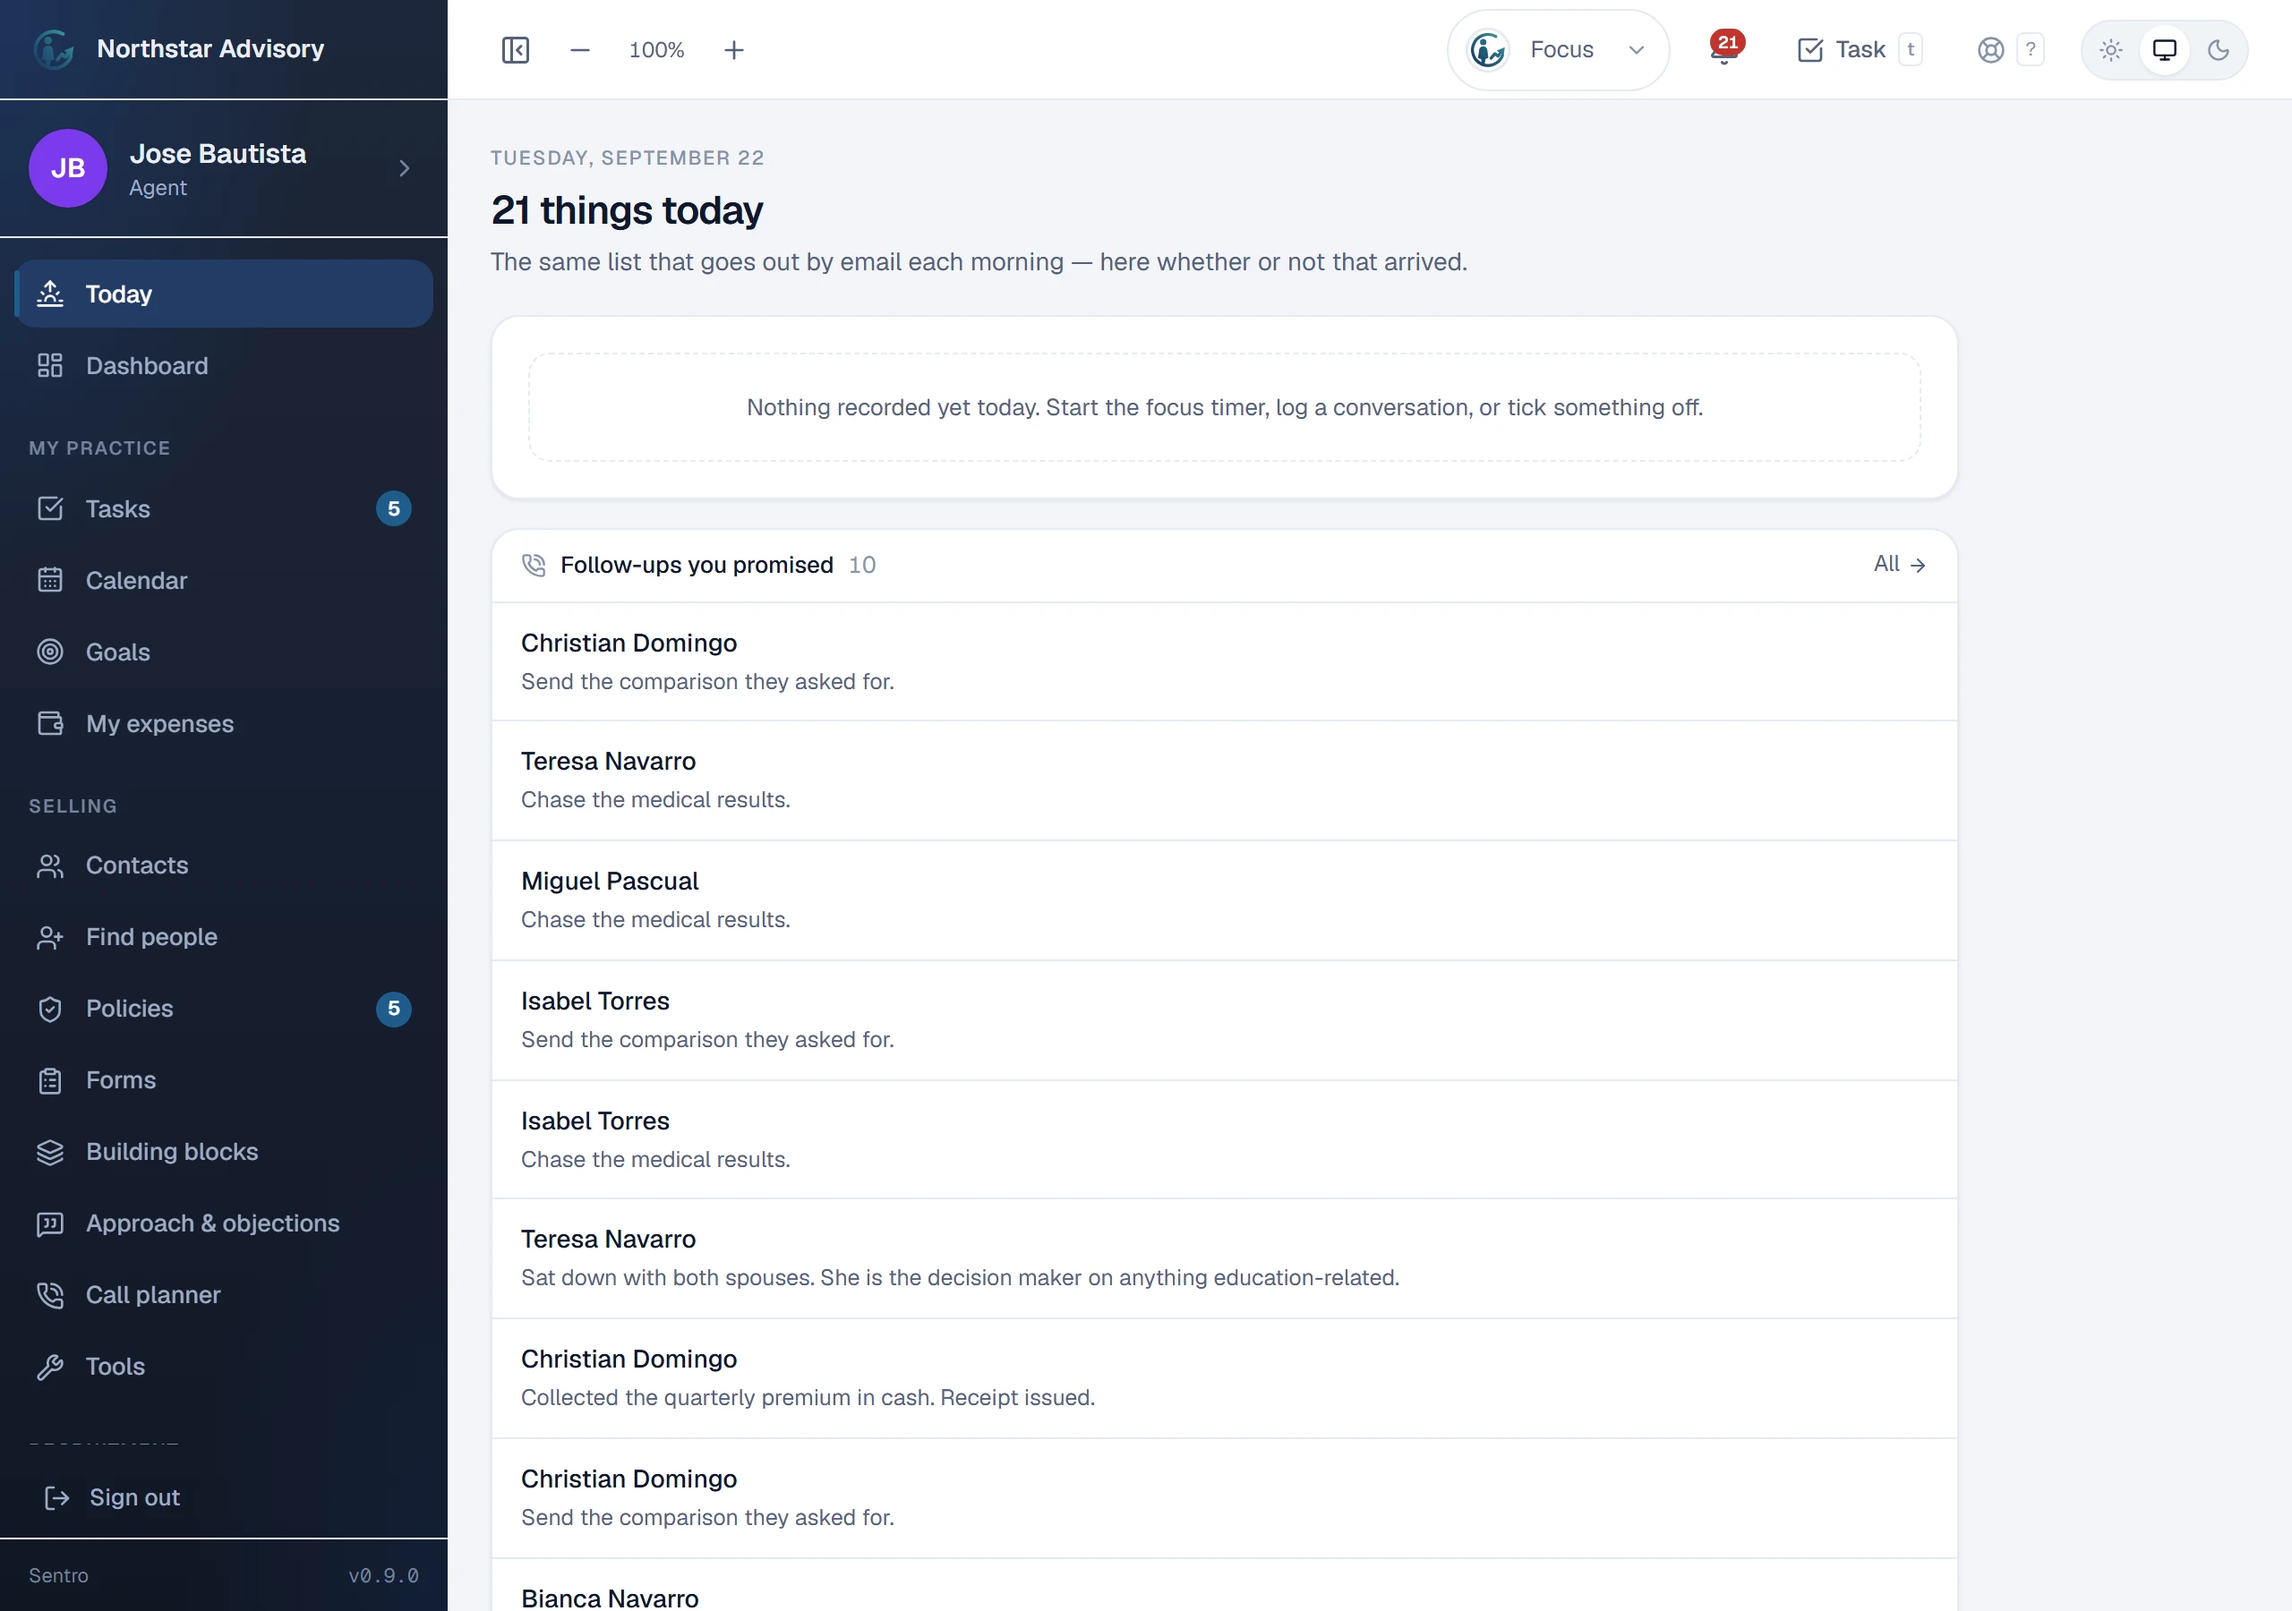
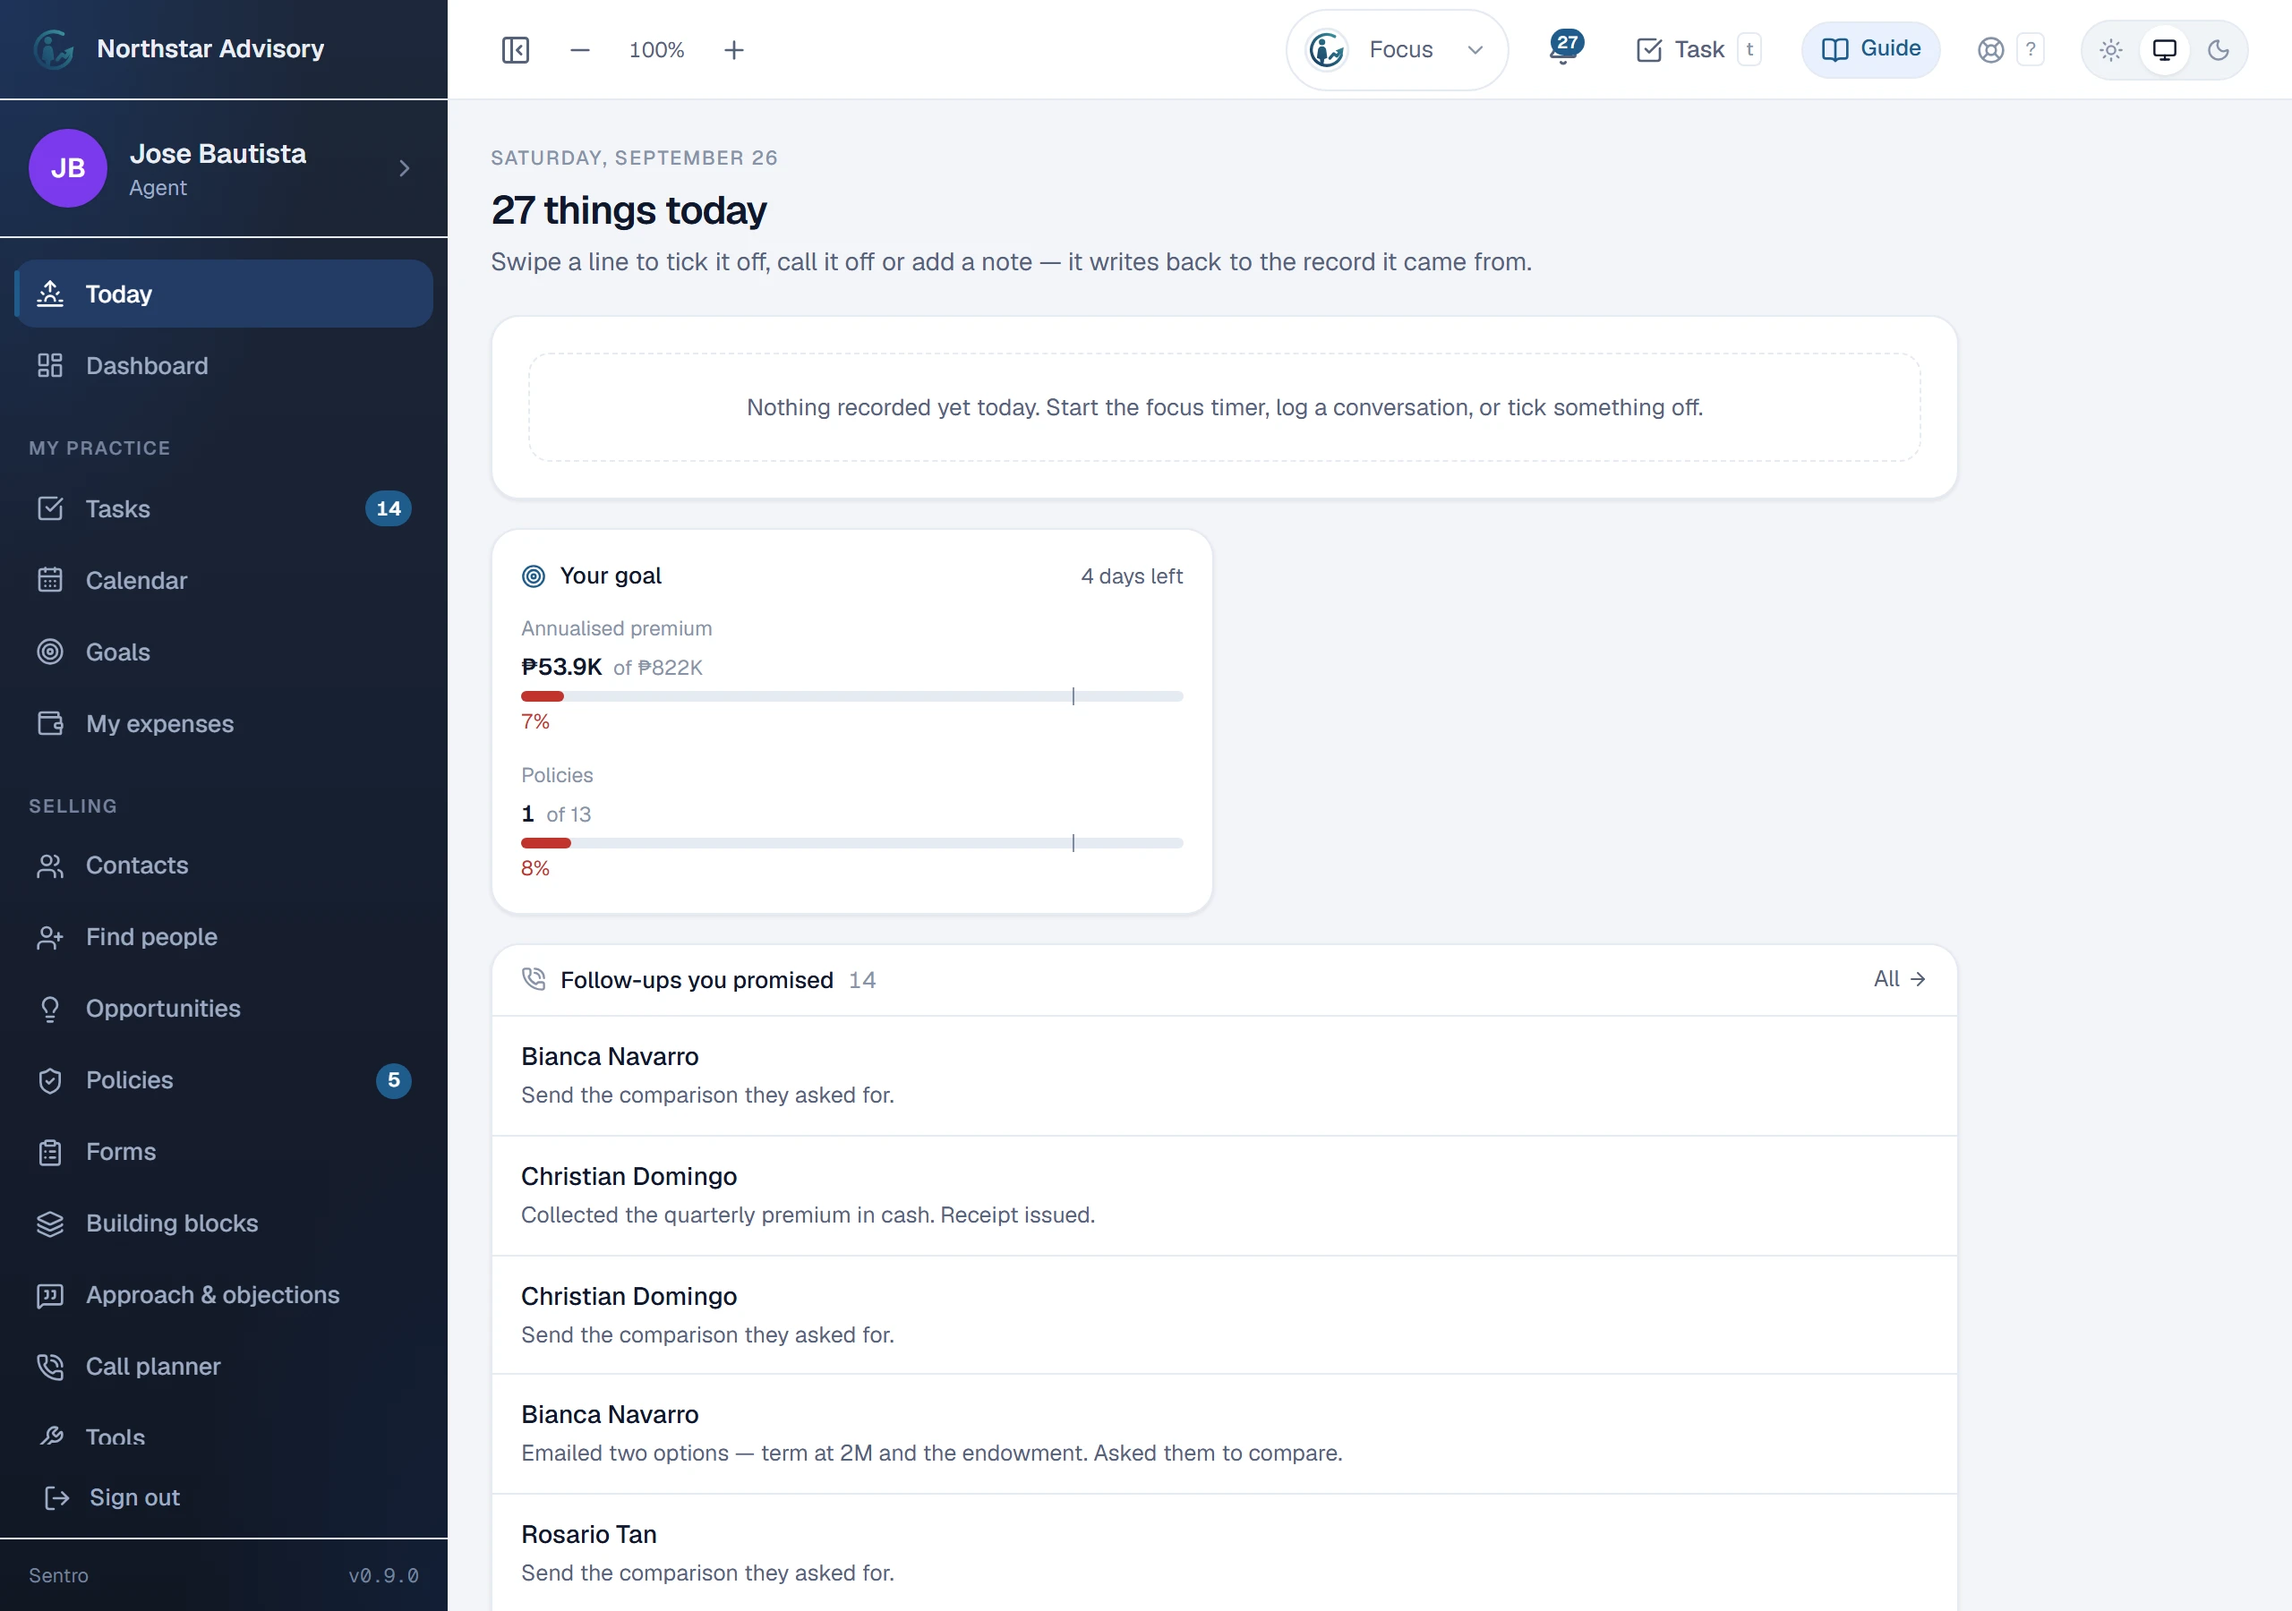
Retake Sentro's screenshots from its 26 Sep set
Sentro re-shot every screen of its own site today, so the four here —
dashboard, Today, Goals, MDRT — were a version behind: no Guide button,
no Opportunities in the sidebar, "carrier" where the product now says
"insurer". Replaced with the new captures, all from its Northstar demo
agency.

Added the recruitment board, one of Sentro's newest screens.

Looked at every candidate first. Left out, as before, portal and
policies — and now the client page too: it is where the new
Opportunities panel lives, but it lists real insurer products (PRULink,
PRUHealth), which this site does not show. Forms was an empty state.

diff --git a/src/content/projects/sentro/index.md b/src/content/projects/sentro/index.md
@@ -121,10 +121,10 @@ stack:
 cover: ./cover.webp
 gallery:
   - src: ./01-today.webp
-    alt: Sentro's Today screen, listing the follow-ups an adviser promised, each with the client's name and what was agreed
+    alt: Sentro's Today screen, showing progress on the month's goal and the follow-ups an adviser promised, each with the client's name and what was agreed
     caption: >-
-      The list an adviser starts the day with — the same one that goes out by email each
-      morning, here whether or not that arrived.
+      The list an adviser starts the day with, beside how the month's goal is going. Swipe a
+      line to tick it off or add a note, and it writes back to the record it came from.
   - src: ./02-goals.webp
     alt: The Goals screen, showing a year's premium target broken into quarters and months with progress for each
     caption: >-
@@ -136,6 +136,11 @@ gallery:
       Where everybody stands this year, and which units are producing qualifiers. MDRT,
       Court of the Table and Top of the Table are marks of the Million Dollar Round Table;
       Sentro is independent of it.
+  - src: ./04-recruitment.webp
+    alt: Sentro's recruitment board, with a Do next list of the most urgent recruits above columns from Prospect through Invited, Attended and Requirements
+    caption: >-
+      Recruitment as a board you work, from first conversation to coded agent. Every card
+      says how long that person has been stuck and what to do next.
 ---
 
 Sentro is sold as a subscription to agencies and to independent advisers rather than to

diff --git a/README.md b/README.md
@@ -144,7 +144,7 @@ port, where to write, an optional login, and the list of pages to shoot.
 
 | Project | Screenshots | Why |
 |---|---|---|
-| Sentro | 4, from Sentro's own set | Copied from `advisor-web/public/screens/` (captured 22–24 Sep 2026 against its **Northstar demo agency** — every name and amount invented). Its `portal` and `policies` shots are **left out on purpose**: they show real insurer and product names. Re-copy when Sentro re-shoots. |
+| Sentro | 5, from Sentro's own set | Copied from `advisor-web/public/screens/` (retaken 26 Sep 2026 against its **Northstar demo agency** — every name and amount invented): `dashboard` → `cover`, `today`, `goals`, `mdrt`, `recruitment`. Its `portal`, `policies` and `client` shots are **left out on purpose**: they show real insurer and product names (the client page lists PRULink and PRUHealth policies). `forms` is an empty state. Re-copy when Sentro re-shoots, and look at each one first. |
 | EA Builders | 4, captured | Only via the built-in mock adapter — see the warning below. |
 | Croma MNL | 2 — supplied by hand | The operations dashboard is from a signed-in admin session at `app.cromamnl.com`. **It shows real revenue figures, not seed data** — unlike every other shot on the site. |
 | Kaha | None | Its API needs a real Postgres and has no mock mode, and there is no counter UI yet. The `system` terminal stands in. The `kaha` entry in `capture.mjs` has the commands. |
